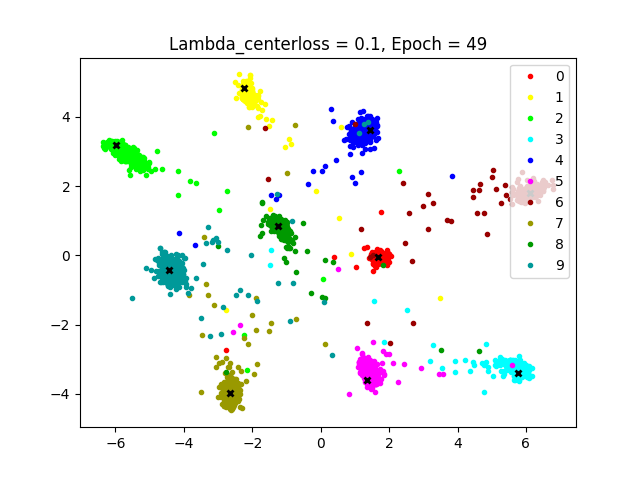
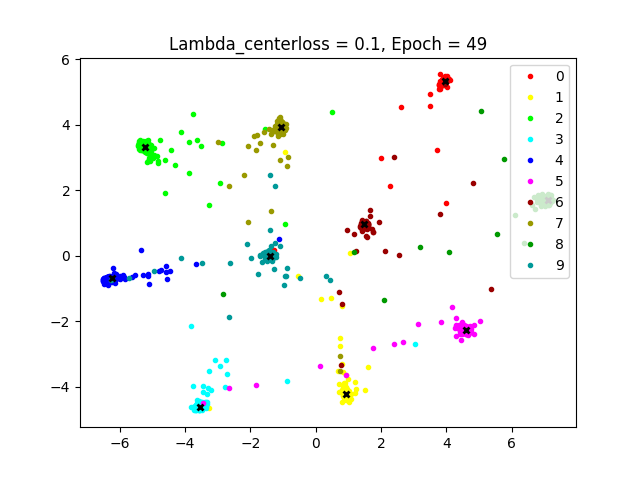
readme

diff --git a/centerLoss_MNIST.py b/centerLoss_MNIST.py
@@ -52,7 +52,7 @@ def run(lambda_centerloss):
         def call(self, x, mask=None):
             # x[0] is Nx2, x[1] is Nx10, self.centers is 10x2
             delta_centers = K.dot(K.transpose(x[1]), (K.dot(x[1], self.centers) - x[0]))  # 10x2
-            delta_centers /= K.sum(K.transpose(x[1]), axis=1, keepdims=True) + 1
+            delta_centers /= K.sum(K.transpose(x[1]), axis=1, keepdims=True) + 1e-3
             new_centers = self.centers - self.alpha * delta_centers
             self.add_update((self.centers, new_centers), x)
 
@@ -145,3 +145,8 @@ def run(lambda_centerloss):
               epochs=epochs,
               verbose=2, validation_data=([x_test, y_test_onehot], [y_test_onehot, dummy2]),
               callbacks=[call1, call2])
+
+###
+
+if __name__=='__main__':
+    run(0.1)
